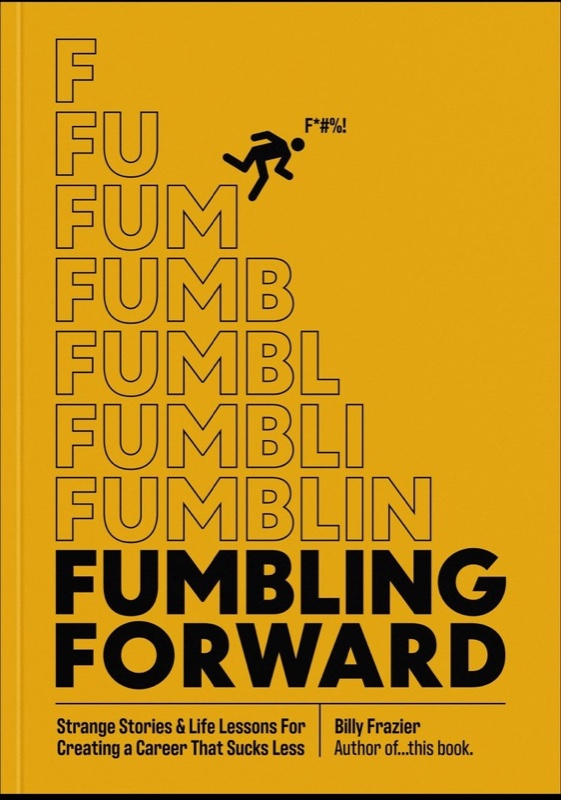
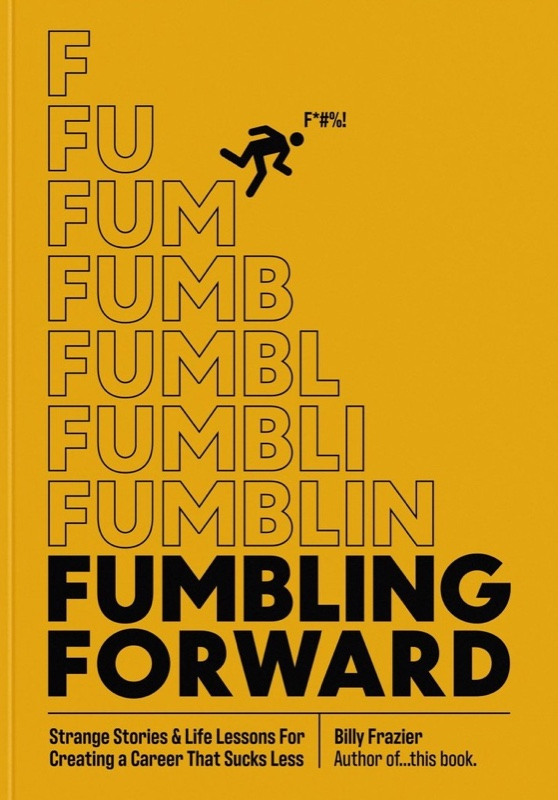
Remove the black outline around the book
The cover texture was cropped flush to the mockup art, keeping a few pixels of
its black background on the top and bottom edges (and the mockup's spine
shading on the left). Re-cropped with an inset so the texture is clean orange
edge to edge.

Changed region(s): [[0.0, 0.0, 1.0, 1.0]]

diff --git a/DESIGN.md b/DESIGN.md
@@ -63,7 +63,9 @@ handles: `__bfDbg`, `__bfMesh`, `__bfBlink` (`.apply(1)` holds eyes shut),
 ## Props ([src/scripts/props.js](src/scripts/props.js))
 Selecting a chip **replaces the bust** with that reply's object at full size;
 reset (or a chip with no prop) brings him back. The book is a textured box using
-the real cover art (public/images/book-cover.jpg) — no downloaded model. Its
+the real cover art (public/images/book-cover.jpg — cropped inset from the
+mockup; a flush crop leaves black background pixels on the edges, which render
+as an outline around the book) — no downloaded model. Its
 proportions and materials come from photos of the physical copy: a 6x9in
 paperback ~0.7in thick (thickness ≈ 12% of width), cream page block, and the
 cover stock wrapping the spine and back in the cover's own orange (#e1a511,

diff --git a/CHANGELOG.md b/CHANGELOG.md
@@ -1,4 +1,5 @@
 # Changelog
+- 2026-09-01 — Removed the black outline around the book: the cover texture had the source mockup's black background baked into its edges.
 - 2026-09-01 — Book model matched to the physical copy: paperback proportions (thinner block), orange wrapped spine and back, cream page edges.
 - 2026-09-01 — Bust back to full size; selecting "Buy my book" now replaces him with the book at full size (crossfade) instead of floating it overhead.
 - 2026-09-01 — Header logo 50% larger on desktop; the floating book now sits directly above his head (anchored to the eye midpoint).
